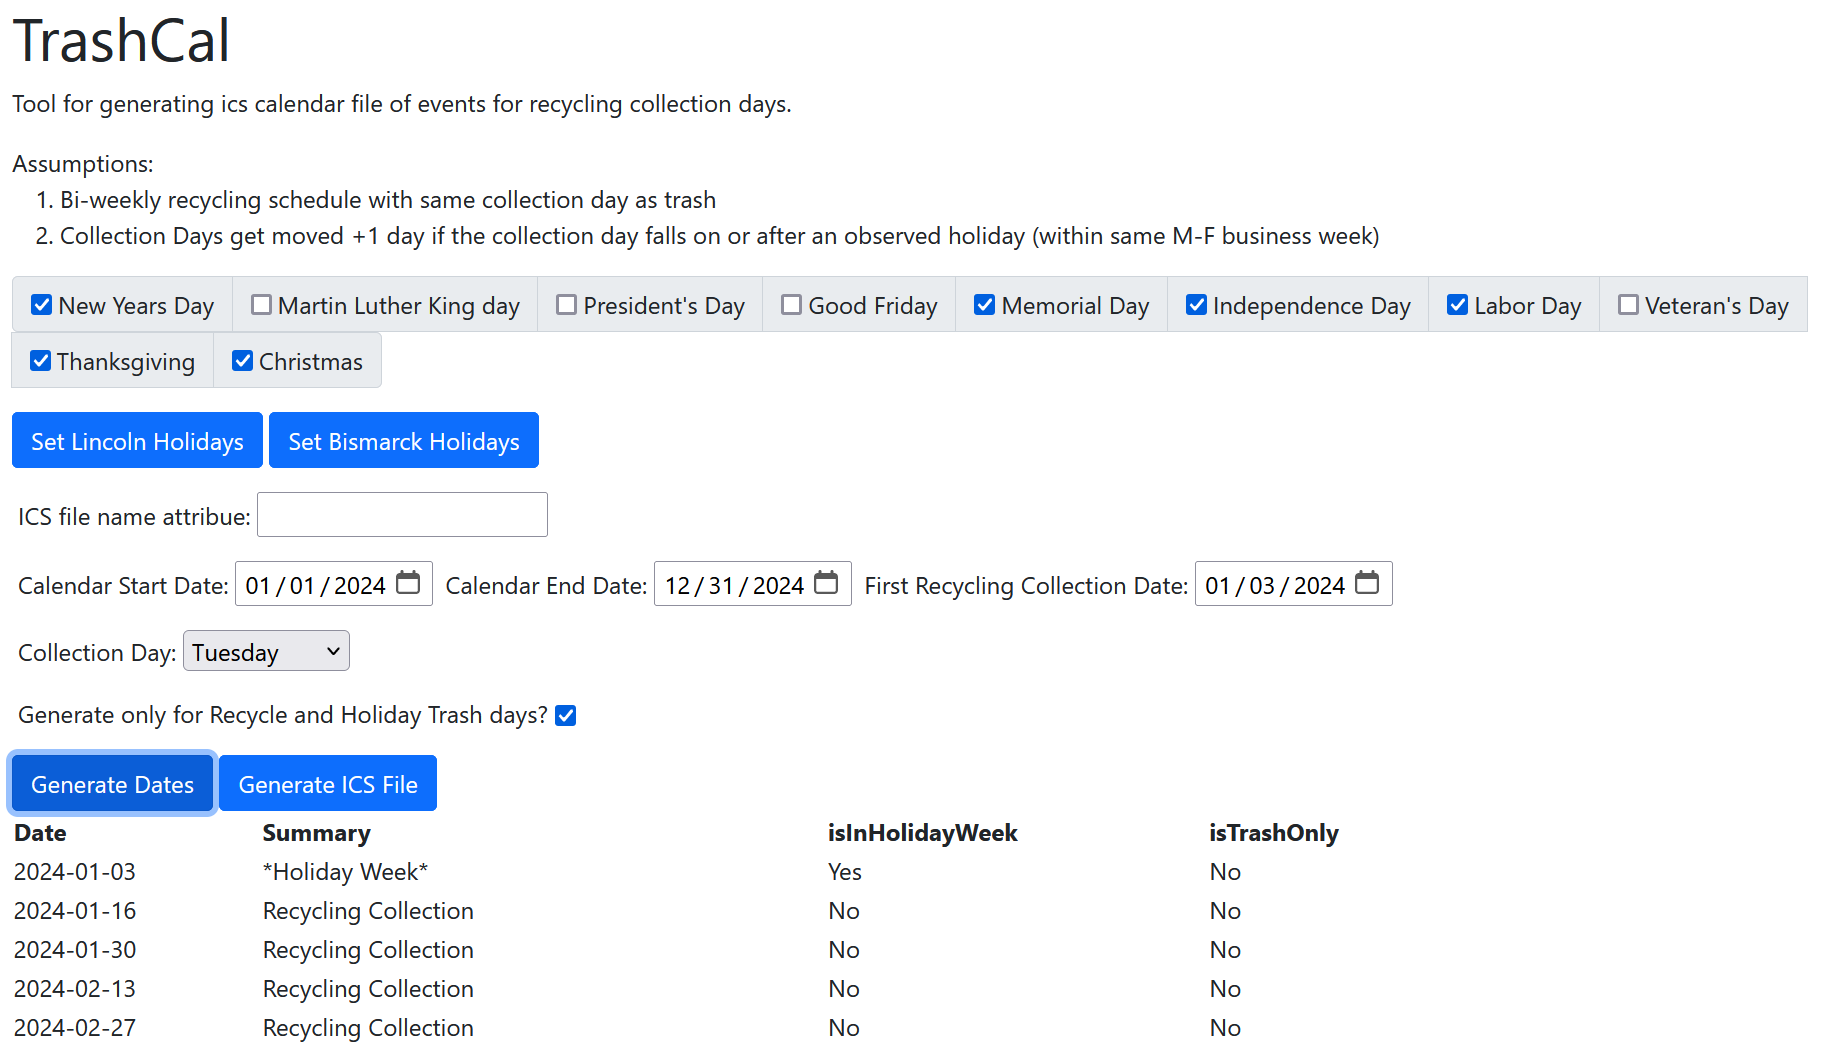
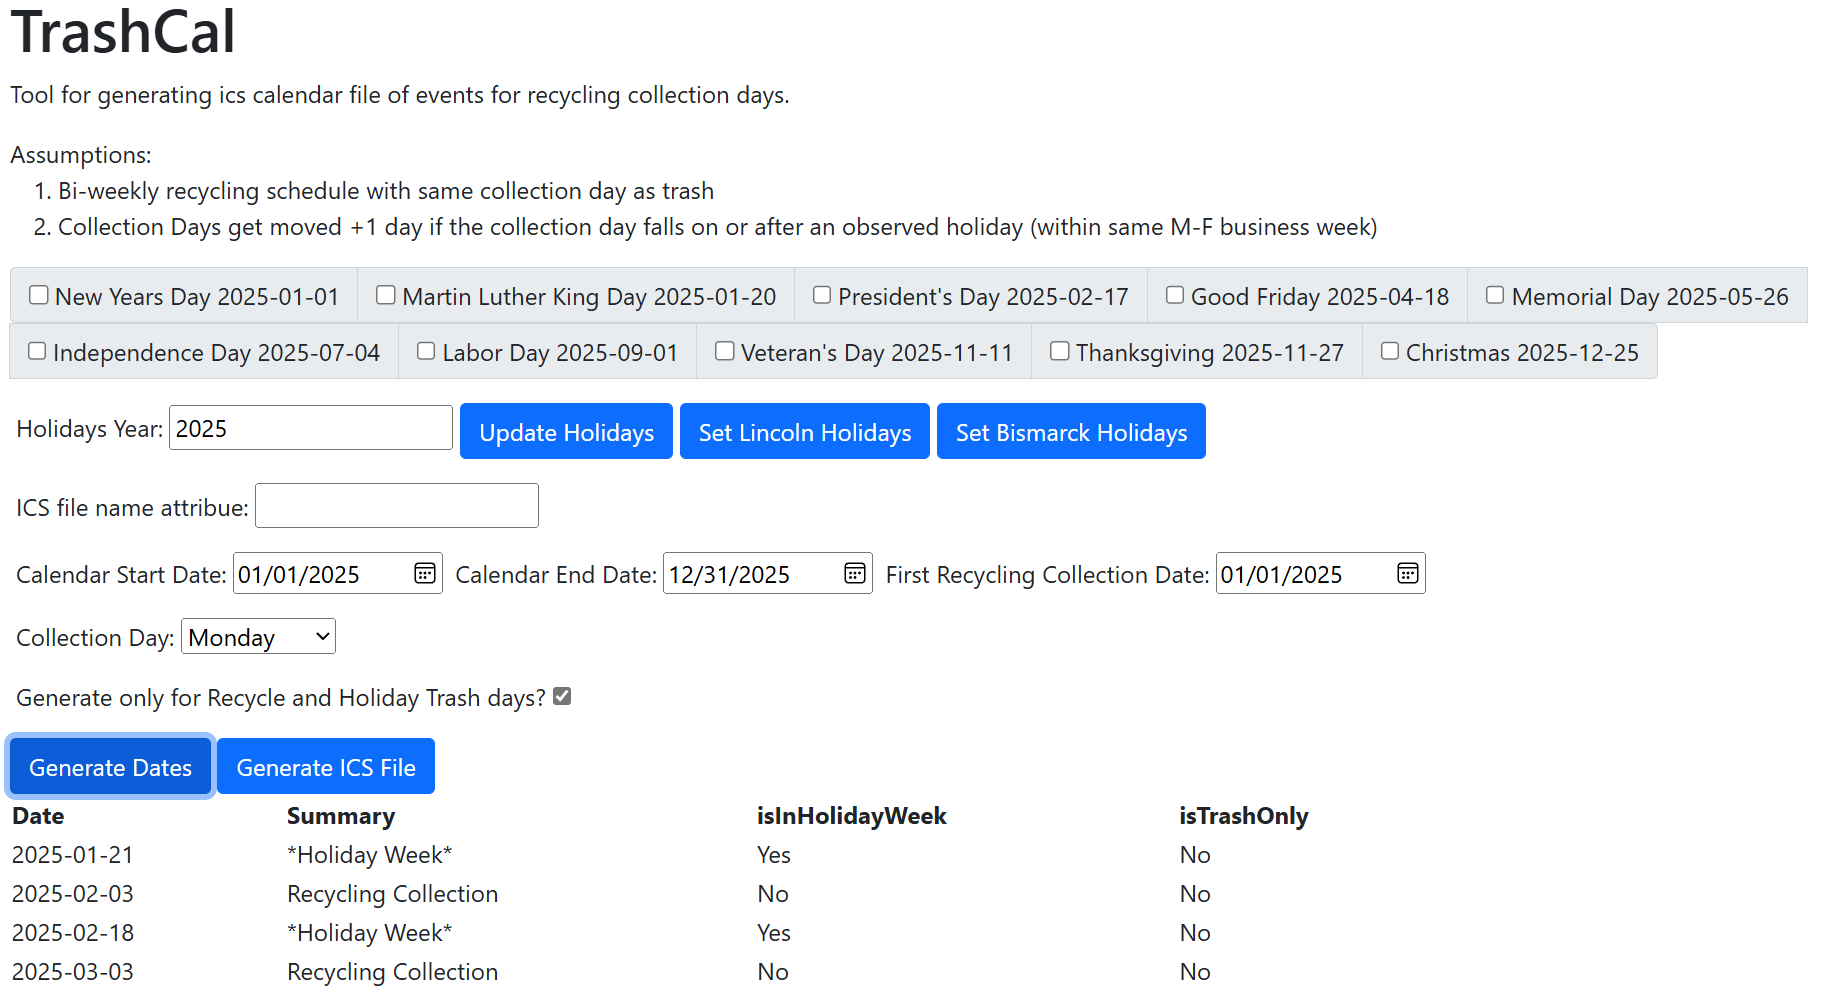
Updated from hard-coded holiday dates to calculations based on year, month, week of month, and weekday values.

diff --git a/static/js/calgen.js b/static/js/calgen.js
@@ -17,22 +17,6 @@ class Holiday {
     }
 }
 
-/**
- * list of holidays used for generating checkboxes
- */
-var holidays = [ 
-    new Holiday(new Date("2025-01-01T00:00:00"), 'New Years Day'),
-    new Holiday(new Date("2025-01-20T00:00:00"), 'Martin Luther King day'),
-    new Holiday(new Date("2025-02-17T00:00:00"), 'President\'s Day'),
-    new Holiday(new Date("2025-04-18T00:00:00"), 'Good Friday'),
-    new Holiday(new Date("2025-05-26T00:00:00"), 'Memorial Day'),
-    new Holiday(new Date("2025-07-04T00:00:00"), 'Independence Day'),
-    new Holiday(new Date("2025-09-01T00:00:00"), 'Labor Day'),
-    new Holiday(new Date("2025-11-11T00:00:00"), 'Veteran\'s Day'),
-    new Holiday(new Date("2025-11-27T00:00:00"), 'Thanksgiving'),
-    new Holiday(new Date("2025-12-25T00:00:00"), 'Christmas')
-
-];
 
 /**
  * Collection to get day name for selected index value
@@ -172,7 +156,7 @@ function holidayWeekCheck(checkDate) {
     let selectedHolidays = getSelectedHolidays();
 
     if(selectedHolidays.length == 0) {
-        selectedHolidays = holidays;
+        selectedHolidays = getHolidaysForYear(new Date().getFullYear());
     }
 
     selectedHolidays.forEach(function(holiday) {   
@@ -251,16 +235,24 @@ function icalDateFormat(date){
  * @returns 
  */
 function initializeStartDateToCollectionDay(startDate, dayOfWeek) {
+    let debug = false || gDebug;
     var adjStartDate = startDate;
 
-    console.log('initializeStartDate: '+ startDate +' startDateDay= ' + startDate.getDay() + ' dayOfWeek ' + dayOfWeek);
+    if(debug) {
+        console.log('initializeStartDate: '+ startDate +' startDateDay= ' + startDate.getDay() + ' dayOfWeek ' + dayOfWeek);
+    }
+    
 
     while(adjStartDate.getDay() != dayOfWeek) {
         adjStartDate.setDate(adjStartDate.getDate()+1);
-        console.log('incremented day', adjStartDate);
+        if(debug) {
+            console.log('incremented day', adjStartDate);
+        }
     }
 
-    console.log('initializeStartDate: '+ adjStartDate +' adjStartDateDay= ' + adjStartDate.getDay() + ' dayOfWeek ' + dayOfWeek);
+    if(debug) {
+        console.log('initializeStartDate: '+ adjStartDate +' adjStartDateDay= ' + adjStartDate.getDay() + ' dayOfWeek ' + dayOfWeek);
+    }
     return adjStartDate;
 }
 
@@ -269,6 +261,19 @@ function initializeStartDateToCollectionDay(startDate, dayOfWeek) {
  */
 function generateHolidayBoxes() {
     let datesContainer = document.getElementById("holidaysContainer");
+    let year = document.getElementById('holidayYear');
+    let holidays = [];
+
+    // wipe current holidays list
+    document.getElementById("holidaysContainer").replaceChildren();
+
+    if (year != undefined && year.value != '') {
+        holidays = getHolidaysForYear(year.value);
+    } else {
+        year = new Date().getFullYear();
+        holidays = getHolidaysForYear(year);
+    }
+    
 
     holidays.forEach((holiday) => {
         let dateContainer = document.createElement("div");
@@ -283,7 +288,7 @@ function generateHolidayBoxes() {
 
         let label = document.createElement("label");
         label.htmlFor = dateBox.id;
-        label.appendChild(document.createTextNode(holiday.description));
+        label.appendChild(document.createTextNode(holiday.description + ' ' + formatDate(holiday.date)));
         label.title = formatDate(holiday.date);
 
         dateContainer.appendChild(dateBox);
@@ -404,10 +409,135 @@ function testHolidayWeekCheck() {
 }
 
 
-$(function(){
+function getHolidaysForYear(year) {
     
-    generateHolidayBoxes();
+    const holidays = [
+        // New Year's Day is January 1st
+        new Holiday(new Date(`${year}-01-01T00:00:00`), 'New Years Day'),
+        
+        // Martin Luther King day is the third Monday of January
+        new Holiday(calculateHolidayDate(year, { month: 0, week: 3, weekday: 1 }), 'Martin Luther King Day'),
+        
+        // President's Day is the third Monday of February
+        new Holiday(calculateHolidayDate(year, { month: 1, week: 3, weekday: 1 }), 'President\'s Day'),
+        
+        // Good Friday is the day before Easter (Easter Sunday)
+        new Holiday(calculateGoodFriday(year), 'Good Friday'),
+        
+        // Memorial Day is the last Monday of May
+        new Holiday(calculateHolidayDate(year, { month: 4, week: -1, weekday: 1 }), 'Memorial Day'),
+        
+        // Independence Day is July 4th
+        new Holiday(new Date(`${year}-07-04T00:00:00`), 'Independence Day'),
+        
+        // Labor Day is the first Monday of September
+        new Holiday(calculateHolidayDate(year, { month: 8, week: 1, weekday: 1 }), 'Labor Day'),
+        
+        // Veteran's Day is November 11th (observed if on Sunday)
+        new Holiday(new Date(`${year}-11-11T00:00:00`), 'Veteran\'s Day'),
+        
+        // Thanksgiving is the fourth Thursday of November
+        new Holiday(calculateHolidayDate(year, { month: 10, week: 4, weekday: 4 }), 'Thanksgiving'),
+        
+        // Christmas is December 25th
+        new Holiday(new Date(`${year}-12-25T00:00:00`), 'Christmas')
+    ];
+    
+    return holidays;
+}
 
+function calculateGoodFriday(year) {
+    const easter = calculateEaster(year);
+    const goodFriday = new Date(easter);
+    goodFriday.setDate(easter.getDate() - 2);
+    return goodFriday;
+}
+
+/**
+ * Function to calculate Easter Sunday based on 'Laurent Longre' Algorithm
+ * https://stackoverflow.com/questions/1284314/easter-date-in-javascript
+ * @param {number} year
+ * @returns 
+ */
+function calculateEaster(year) {
+    let M=3, 
+    G= year % 19+1, 
+    C= ~~(year/100)+1, 
+    L=~~((3*C)/4)-12,
+    E=(11*G+20+ ~~((8*C+5)/25)-5-L)%30, 
+    D;
+    
+    E<0 && (E+=30);
+    (E==25 && G>11 || E==24) && E++;
+    (D=44-E)<21 && (D+=30);
+    (D+=7-(~~((5*year)/4)-L-10+D)%7)>31 && (D-=31,M=4);
+
+    return new Date(year, M-1, D);
+}
+
+/**
+ * Returns date for provided parameters. 
+ * Memorial Day is the last Monday of May - calculateHolidayDate(year, { month: 4, week: -1, weekday: 1 })
+ * 
+ * @param {number} year - YYYY
+ * @param {number} month - 0-indexed month, 0 is January 
+ * @param {number} week - -1 for last week of month, 1 for first instance of day in month, 2 for second, etc.
+ * @param {number} weekday - 0-indexed day of the week, 0 is Sunday
+ * @returns 
+ */
+function calculateHolidayDate(year, { month, week, weekday }) {
+    if(isNaN(year)) {
+        throw new Error("Invalid year");
+    } else if(isNaN(month) || month < 0 || month > 11) {
+        throw new Error("Invalid month - expected 0-11");
+    } else if(isNaN(week) || week > 4 || week < -1 || week === 0) {
+        throw new Error("Invalid week - expected values [-1 for last week, 1 for first week, 2 for second, 3 for third, 4 for fourth]");
+    } else if(isNaN(weekday) || weekday > 6 || weekday < 0) {
+        throw new Error("Invalid weekday - expected 0-6");
+    }
+
+    if (week === -1) { // Last week of the month
+        // initialize to the last day of the month 
+        let date = new Date(year, month + 1, 0);
+        
+        // iterate backwards to the specified weekday
+        while (date.getDay() !== weekday) {
+            date.setDate(date.getDate() - 1);
+        }
+        return date;
+    } else {
+        // initialize to first of month
+        let date = new Date(year, month, 1);
+
+        // Adjust to the specified weekday
+        while (date.getDay() !== weekday) {
+            date.setDate(date.getDate() + 1);
+        }
+        let weekCounter = 1;
+
+        while (weekCounter !== week && weekCounter < 5) {
+            date.setDate(date.getDate() + 7);
+            weekCounter += 1;
+        }
+        
+        return date;
+
+    }
+    
+}
+
+$(function(){
+    // default the year input to current year
+    let currYear = new Date().getFullYear(); 
+    let yearField = document.getElementById('holidayYear');
+    yearField.value = currYear;
+
+    // default start and end dates to beginning and end of current year
+    document.getElementById('startDate').defaultValue = currYear + '-01-01';
+    document.getElementById('endDate').defaultValue = currYear + '-12-31';
+    document.getElementById('firstRecycleCollectionDate').defaultValue = currYear + '-01-01';
+
+    generateHolidayBoxes();
 
 })
 

diff --git a/index.html b/index.html
@@ -31,6 +31,9 @@
         </div>
 
         <div class="mb-3">
+            <label for="holidayYear">Holidays Year:</label>
+            <input type="number" id="holidayYear" length="4" size="4"/>
+            <button type="button" class="btn btn-primary" onclick="generateHolidayBoxes();">Update Holidays</button>
             <button type="button" class="btn btn-primary" onclick="setHolidaySelectionsByGroup('lincoln');">Set Lincoln Holidays</button>
             <button type="button" class="btn btn-primary" onclick="setHolidaySelectionsByGroup('bismarck');">Set Bismarck Holidays</button>
         </div>
@@ -41,6 +44,7 @@
         </div>
         
         <div class="mb-3">
+
             <label for="startDate">Calendar Start Date:</label>
             <input type="date" id="startDate" min="2021-01-01" title="Start Date" value="2024-01-01">
 

diff --git a/README.md b/README.md
@@ -11,7 +11,7 @@ Tool for calculating recycling collection date schedule with holiday adjustments
 ## How to use:
 Just download/clone the repo to your system, then open index.html page in your browser (Ctrl+O).  Requires internet connection to download required jQuery and Bootstrap dependencies.
 
-Holiday selections are currently defined as a hard-coded array for 2024 dates at the top of the calgen.js file - add any additional required dates you need.  
+Holiday selections are currently defined as a hard-coded array at the top of the calgen.js file - add any additional required dates you need.  
 
 ## About:
 A few years ago, I got tired of forgetting which week was recycling collection and having to go 2 weeks longer with a full can because I missed the collection day.  
@@ -28,3 +28,6 @@ I was never really planning on opening this up as a public repo or doing much wi
 Why JavaScript?  Because I've been working on large monolithic Java apps full-time++ for the past 13 years and it's nice to work with something simpler that I don't get to use much in my day job.  I didn't want to have to rely on spinning up an application server to run the code or have to worry about installing some other app to run from the command line or Docker containers, so I made it self-contained with just static html and JavaScript files.  Makes me think of the old days circa 1999-2000ish when I learned to develop simple websites in school using just a text file in notepad and Internet Explorer.
 
 If you use this project's contents to make a boatload of money, remember your roots. At the very least, pay it forward some day.
+
+## Version History
+01/12/2025 - Updated from using hard-coded date values to using calculation algorithms based on provided year, month, week of month, and weekday values
